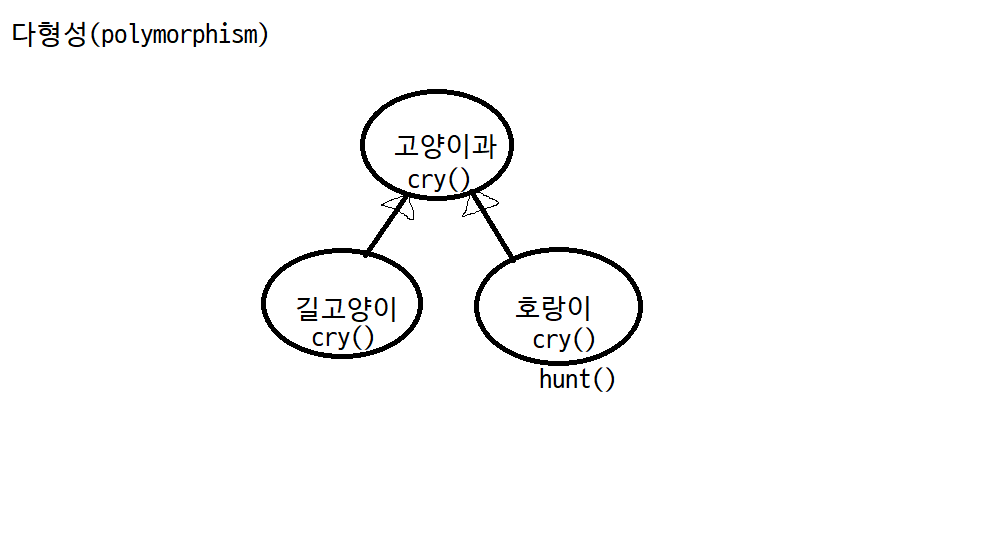
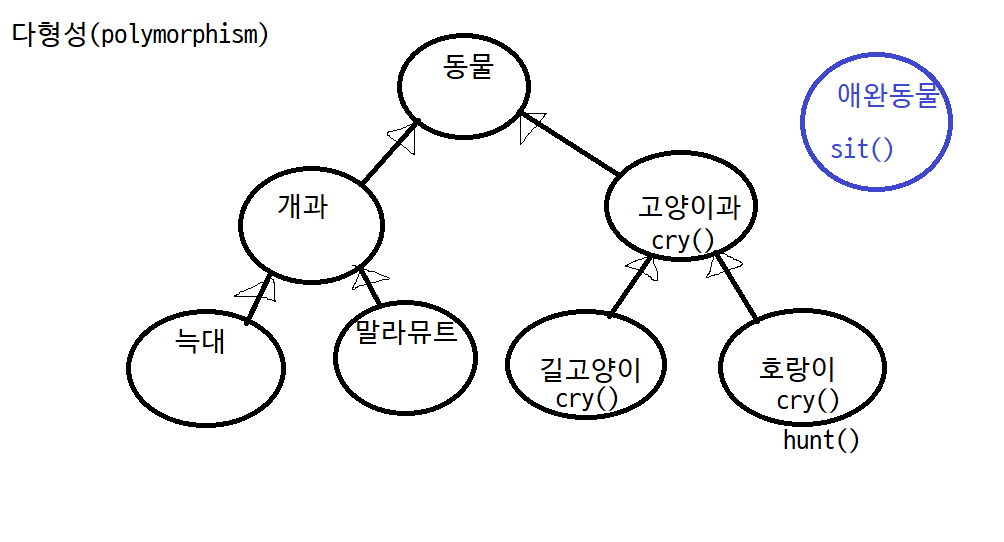
interface

diff --git a/src/p08/lecture/ex1/Malamute.java b/src/p08/lecture/ex1/Malamute.java
@@ -1,0 +1,5 @@
+package p08.lecture.ex1;
+
+public class Malamute extends KindaDog {
+
+}

diff --git a/src/p08/lecture/ex1/Cat.java b/src/p08/lecture/ex1/Cat.java
@@ -1,0 +1,5 @@
+package p08.lecture.ex1;
+
+public class Cat extends KindaCat {
+
+}

diff --git a/src/p08/lecture/ex1/A01Interface.java b/src/p08/lecture/ex1/A01Interface.java
@@ -1,0 +1,5 @@
+package p08.lecture.ex1;
+
+public class A01Interface {
+
+}

diff --git a/src/p08/lecture/ex1/KindaCat.java b/src/p08/lecture/ex1/KindaCat.java
@@ -1,0 +1,5 @@
+package p08.lecture.ex1;
+
+public class KindaCat {
+
+}

diff --git a/src/p08/lecture/ex1/KindaDog.java b/src/p08/lecture/ex1/KindaDog.java
@@ -1,0 +1,5 @@
+package p08.lecture.ex1;
+
+public class KindaDog {
+
+}
